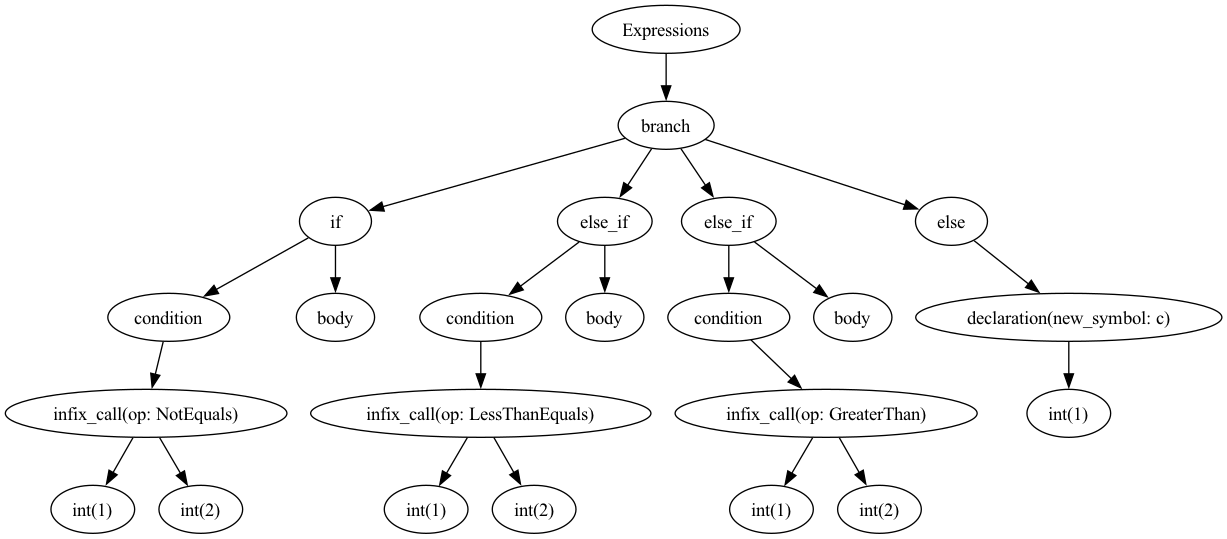
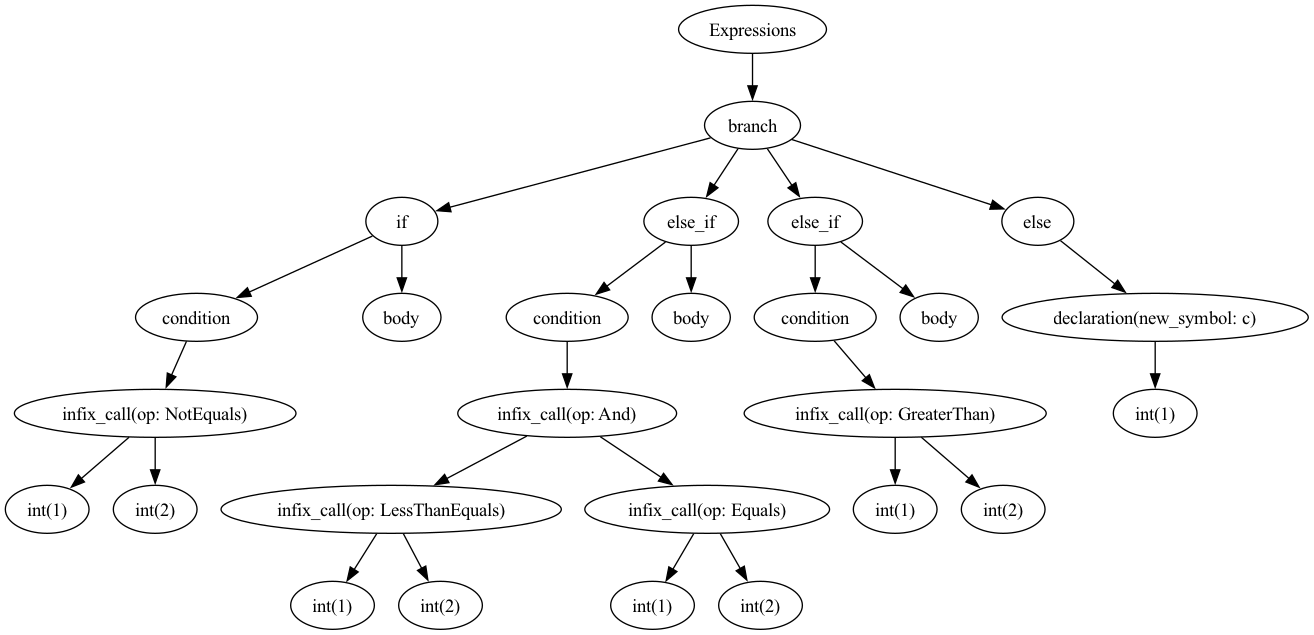
cleaned up grammar

diff --git a/compiler_proj/crates/parser/src/lib.rs b/compiler_proj/crates/parser/src/lib.rs
@@ -203,7 +203,7 @@ mod tests {
         let expr = ast_grammar::ProgrammParser::new()
             .parse(
                 r#"if (1 != 2) {
-            } else if (1 <= 2) {
+            } else if (1 <= 2 && 1 == 2) {
             } else if (1 > 2) {
             } else {
                 c := 1;
